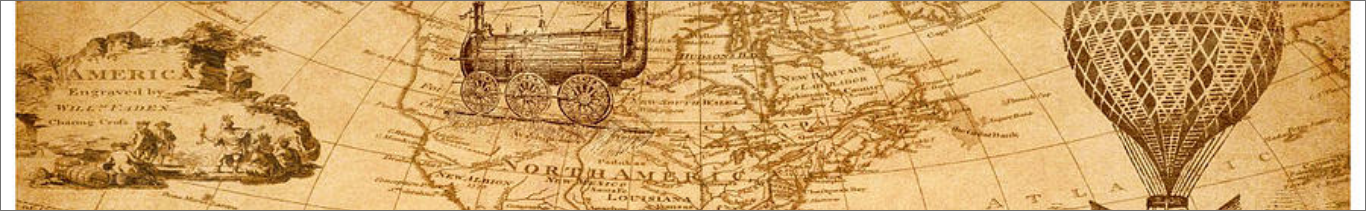
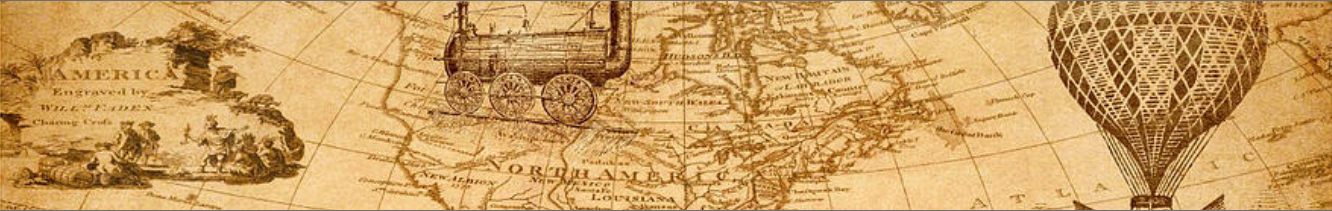
04/03/2024

diff --git a/services.html b/services.html
@@ -4,53 +4,64 @@
     <meta charset="UTF-8">
     <meta name="viewport" content="width=device-width, initial-scale=1.0">
     <title>Byrd Land Surveying</title>
-    <!--<link rel="stylesheet" type="text/css" href="styles.css">
-    -->
+    <!-- <link rel="stylesheet" type="text/css" href="styles.css"> -->
+    <link rel="stylesheet" type="text/css" href="css/home.css">
+    <!-- <link rel="stylesheet" href="/css/global.css"> -->
+    <!-- <link rel="stylesheet" href="https://use.typekit.net/kxs6nrg.css"> -->
 </head>
+
 <body>
-    <div>
-        <div>
-            <img src="images/Logo.png" alt="logo">
-            <ul>
+    <div id="site_wrap">
+        <div class="header">
+            <img src="images/Logo.png" class="logo" alt="logo">
+            <ul class="nav">
                 <li><a href="home.html">Home</a></li>
                 <li><a href="about.html">About</a></li>
-                <li><a href="services.html">Services</a></li>
+                <li><a class="active" href="services.html">Services</a></li>
                 <li><a href="history.html">History</a></li>
-                <li><a href="contact-us.html">Contact Us</a></li>
+                <li><a class="btn" href="contact-us.html">Contact Us</a></li>
             </ul>
-            <img src="images/Map Header Picture.png">
         </div>
-        
-        <div>
-            <h1>Services</h1>
-        </div>
+        <img src="images/Map Header Picture.png" class="mappic" alt="mappic">
+    </div>
+    <div class="william-title">
+        <h1>Services</h1>
+    </div>
 
-        <div>
-            <h2>Topographical Surveys</h2>
-            <p> Topographical surveys locate all surface features of a property, and depicts all natural features and elevations.</p>
-        <img src="images/oldmap.png">
-        </div>
+    <section class="home_hero">
+        <div class="services-container">
+            <div class="topo">
+                <h2>Topographical Surveys</h2>
+                <p> Topographical surveys locate all surface features of a property, and depicts all natural features and elevations.
+                <br>
+                <img src="images/oldmap.png"> </p>
+            </div>
 
-        <div>
+        <div class="stake">
             <h2>Construction Staking</h2>
             <p> Construction staking surveys are the process of analyzing and interpreting architectural and civil engineering plans and calculating appropriate offset survey points and elevations</p>
         </div>
 
-        <div>
+        <div class="line">
             <h2>Boundary Line Surveys</h2>
             <p>  Property and boundary line surveys are processes carried out to determine property lines and define true property corners of a parcel of land described in a deed.</p>
         </div>
 
-        <div>
+        <div class="land">
             <h2>Land Title Surveys</h2>
-            <p> Land title surveys are a thorough survey of real property performed by licensed professional land surveyors.</p>
-        <img src="images/surveylines.png">
+            <p> Land title surveys are a thorough survey of real property performed by licensed professional land surveyors.
+            <br>
+            <img src="images/surveylines.png"></p>
         </div>
+        </div>
+    </section>
 
-        <div>
-            Byrd Land Surveying 801-555-4321
+        <div class="home_footer">
+            <img src="images/BluePaint.jpg" alt="logo">
+            <div class="btm-ctr">
+                <h2>Byrd Land Surveying 801-555-4321</h2>
+            </div>
         </div>
-        <img src="images/BluePaint.jpg">
     </div>
 </body>
 </html>

diff --git a/css/home.css b/css/home.css
@@ -166,6 +166,7 @@
 }
 
 .whole-line, .whole-line input {
+    color: #2E2E2E;
     text-align: center;
     width: 300px;
     margin-left: auto;
@@ -184,3 +185,179 @@
     resize: none;
 }
 
+
+/* SERVICES PAGE */
+
+
+.services-container {
+    display:flex;
+    flex-wrap: wrap;
+    margin: auto;
+    max-width: 980px;
+    padding-left: 10%;
+    padding-right: 10%;
+}
+
+.william-title {
+    width: 100%;
+    height: 70px;
+    color: #E6E5DA;
+    background-color: #53736A;
+    text-align: center;
+    padding-top: 5px;
+    padding-bottom: 15px;
+    margin-top: -5px;
+}
+
+.topo {
+    width: 450px;
+    height: 300px;
+    background-color: #97B3B9;
+    margin-top: 30px;
+    margin-left: auto;
+    margin-right: auto;
+    padding-top: 0px;
+    padding-left: 0px;
+}
+
+.topo h2 {
+    width: 100%;
+    text-align: center;
+    margin-top: 0px;
+    margin-left: 0px;
+    padding-top: 10px;
+    padding-bottom: 10px;
+    color: #021C22;
+    background-color: #5D8891;
+}
+
+.topo p {
+    color: #2E2E2E;
+    text-align: center;
+    padding-left: 20px;
+    padding-right: 20px;
+}
+
+.topo img {
+    width: 200px;
+    margin-top: 10px;
+}
+
+.stake {
+    width: 450px;
+    height: 300px;
+    background-color: #E6E5DA;
+    margin-top: 30px;
+    margin-left: auto;
+    margin-right: auto;
+    padding-top: 0px;
+    padding-left: 0px;
+}
+
+.stake h2 {
+    width: 100%;
+    text-align: center;
+    margin-top: 0px;
+    margin-left: 0px;
+    padding-top: 10px;
+    padding-bottom: 10px;
+    color: #4F4E44;
+    background-color: #C2C0A6;
+}
+
+.stake p {
+    color: #2E2E2E;
+    text-align: center;
+    padding-left: 20px;
+    padding-right: 20px;
+}
+
+.stake img {
+    width: 200px;
+    margin-top: 10px;
+}
+
+.line {
+    width: 450px;
+    height: 300px;
+    background-color: #DBE1B3;
+    margin-top: 30px;
+    margin-left: auto;
+    margin-right: auto;
+    padding-top: 0px;
+    padding-left: 0px;
+}
+
+.line h2 {
+    width: 100%;
+    text-align: center;
+    margin-top: 0px;
+    margin-left: 0px;
+    padding-top: 10px;
+    padding-bottom: 10px;
+    color: #454A1C;
+    background-color: #C7D088;
+}
+
+.line p {
+    color: #2E2E2E;
+    text-align: center;
+    padding-left: 20px;
+    padding-right: 20px;
+}
+
+.line img {
+    width: 200px;
+    margin-top: 10px;
+}
+
+.land {
+    width: 450px;
+    height: 300px;
+    background-color: #A0B59F;
+    margin-top: 30px;
+    margin-left: auto;
+    margin-right: auto;
+    margin-bottom: 10px;
+    padding-top: 0px;
+    padding-left: 0px;
+}
+
+.land h2 {
+    width: 100%;
+    text-align: center;
+    margin-top: 0px;
+    margin-left: 0px;
+    padding-top: 10px;
+    padding-bottom: 10px;
+    color: #2B3A2B;
+    background-color: #6A8C69;
+}
+
+.land p {
+    color: #2E2E2E;
+    text-align: center;
+    padding-left: 20px;
+    padding-right: 20px;
+}
+
+.land img {
+    width: 200px;
+    margin-top: 10px;
+}
+
+
+
+/* HISTORY PAGE */
+
+
+.dark-title {
+    width: 100%;
+    height: 70px;
+    color: #E6E5DA;
+    background-color: #021C22;
+    text-align: center;
+    padding-top: 5px;
+    padding-bottom: 15px;
+    margin-top: -5px;
+}

diff --git a/history.html b/history.html
@@ -4,22 +4,31 @@
     <meta charset="UTF-8">
     <meta name="viewport" content="width=device-width, initial-scale=1.0">
     <title>Byrd Land Surveying</title>
-    <!--<link rel="stylesheet" type="text/css" href="styles.css">
-    -->
+    <!-- <link rel="stylesheet" type="text/css" href="styles.css"> -->
+    <link rel="stylesheet" type="text/css" href="css/home.css">
+    <!-- <link rel="stylesheet" href="/css/global.css"> -->
+    <!-- <link rel="stylesheet" href="https://use.typekit.net/kxs6nrg.css"> -->
 </head>
+
 <body>
-    <div>
-        <div>
-            <img src="images/Logo.png" alt="logo">
-            <ul>
+    <div id="site_wrap">
+        <div class="header">
+            <img src="images/Logo.png" class="logo" alt="logo">
+            <ul class="nav">
                 <li><a href="home.html">Home</a></li>
                 <li><a href="about.html">About</a></li>
                 <li><a href="services.html">Services</a></li>
-                <li><a href="history.html">History</a></li>
-                <li><a href="contact-us.html">Contact Us</a></li>
+                <li><a class="active" href="history.html">History</a></li>
+                <li><a class="btn" href="contact-us.html">Contact Us</a></li>
             </ul>
-            <img src="images/Map Header Picture.png">
         </div>
+        <img src="images/Map Header Picture.png" class="mappic" alt="mappic">
+    </div>
+    <div class="dark-title">
+        <h1>History of Land Surveyors</h1>
+    </div>
+
+    <section class="home_hero">
         
         <div>
             <h1>History of Land Surveyors</h1>

diff --git a/contact-us.html b/contact-us.html
@@ -63,7 +63,15 @@
                         <div class="half-line"> Country: <br><input type="text"></div>
                     </div>
                     <br>
-                    <div class="whole-line"> What Type of Survey?: <br><input type="text"></div>
+                    <div class="whole-line">
+                        <label for="stype">What Type of Survey?:</label>
+                        <select type="text" style="width:310px">
+                            <option value="1">Topographical Survey</option>
+                            <option value="1">Construction Staking Survey</option>
+                            <option value="1">Boundary Line Survey</option>
+                            <option value="1">Land Title Survey</option>
+                        </select>
+                    </div>
                     <br>
                     <div class="whole-line"> Tell us about your project: <br><textarea cols="43" rows="5"></textarea></div>
                     <br>
